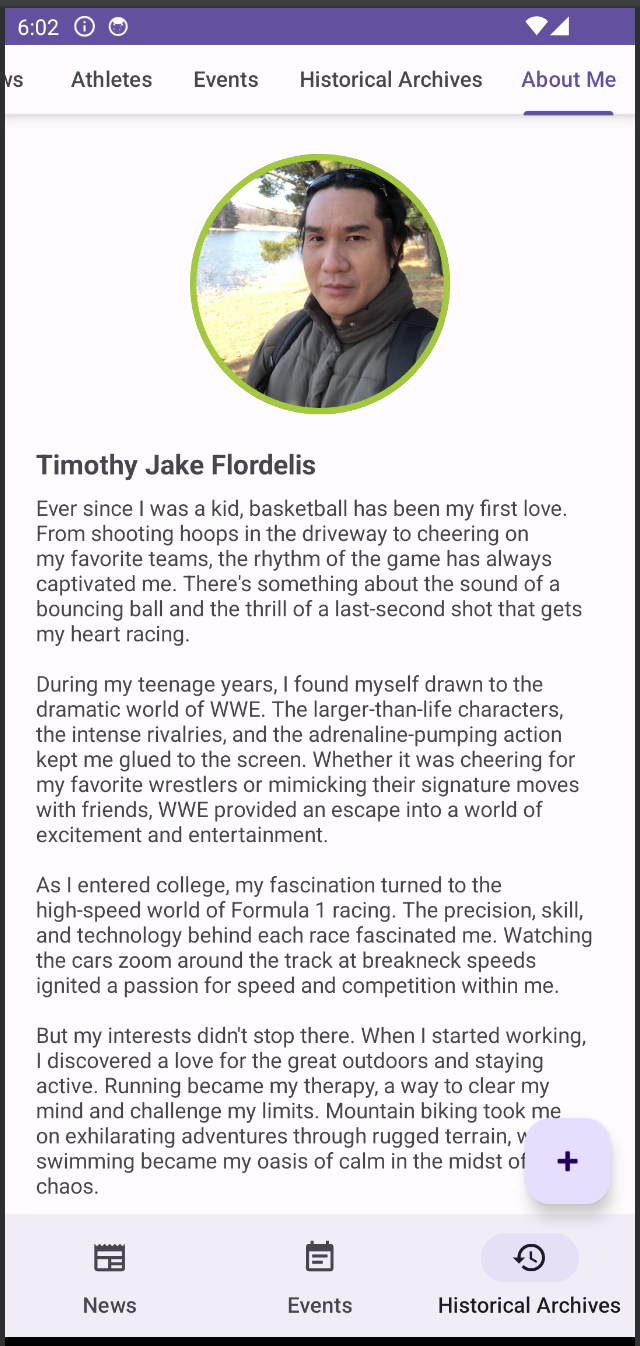
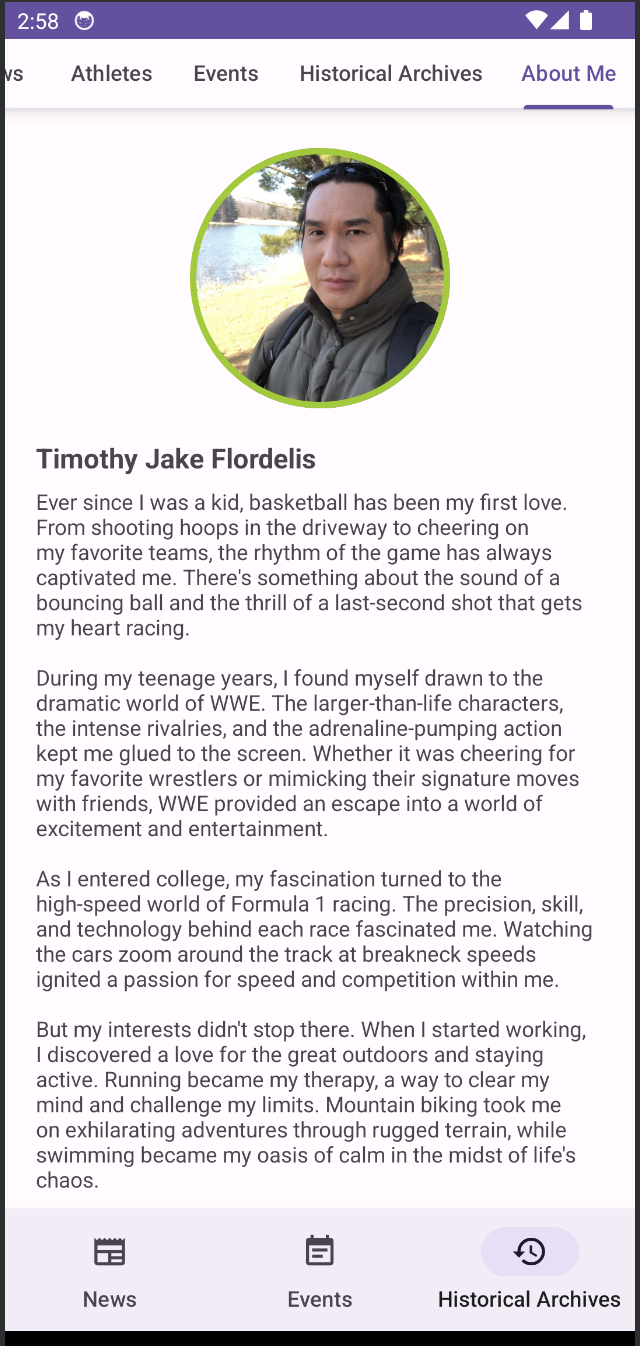
Made changes to not show FAB on About Me Page

Changed region(s): [[0.0, 0.0936, 1.0, 0.9985], [0.0, 0.0, 1.0, 0.0936]]

diff --git a/app/src/main/java/com/example/sportsnewsandinformationapp/MainActivity.kt b/app/src/main/java/com/example/sportsnewsandinformationapp/MainActivity.kt
@@ -7,6 +7,7 @@ import androidx.fragment.app.Fragment
 import androidx.viewpager2.adapter.FragmentStateAdapter
 import com.example.sportsnewsandinformationapp.databinding.ActivityMainBinding
 import com.google.android.material.tabs.TabLayout
+import com.google.android.material.tabs.TabLayout.OnTabSelectedListener
 import com.google.android.material.tabs.TabLayoutMediator
 
 class MainActivity : AppCompatActivity() {
@@ -29,8 +30,9 @@ class MainActivity : AppCompatActivity() {
         val viewPager = binding.mainFragmentHolder
         viewPager.adapter = MainFragmentAdapter(fragments, this)
         binding.mainTabLayout.tabGravity = TabLayout.GRAVITY_FILL
+        val tabLayout = binding.mainTabLayout
 
-        TabLayoutMediator(binding.mainTabLayout, viewPager) { tab, position ->
+        TabLayoutMediator(tabLayout, viewPager) { tab, position ->
             when (position) {
                 0 -> tab.text = getString(R.string.sports_label)
                 1 -> tab.text = getString(R.string.news_label)
@@ -43,13 +45,27 @@ class MainActivity : AppCompatActivity() {
         }.attach()
 
         binding.mainBottomNav.setOnItemSelectedListener { item ->
-            when(item.itemId){
+            when (item.itemId) {
                 R.id.menu_news -> viewPager.setCurrentItem(1, false)
                 R.id.menu_events -> viewPager.setCurrentItem(3, false)
                 R.id.menu_historical_archives -> viewPager.setCurrentItem(4, false)
             }
             true
         }
+
+        tabLayout.addOnTabSelectedListener(object : OnTabSelectedListener {
+            override fun onTabSelected(tab: TabLayout.Tab?) {
+                if (tab?.position == 5) binding.floatingActionButton.hide()
+                else binding.floatingActionButton.show()
+            }
+
+            override fun onTabUnselected(tab: TabLayout.Tab?) {
+            }
+
+            override fun onTabReselected(tab: TabLayout.Tab?) {
+            }
+
+        })
     }
 
     private inner class MainFragmentAdapter(
